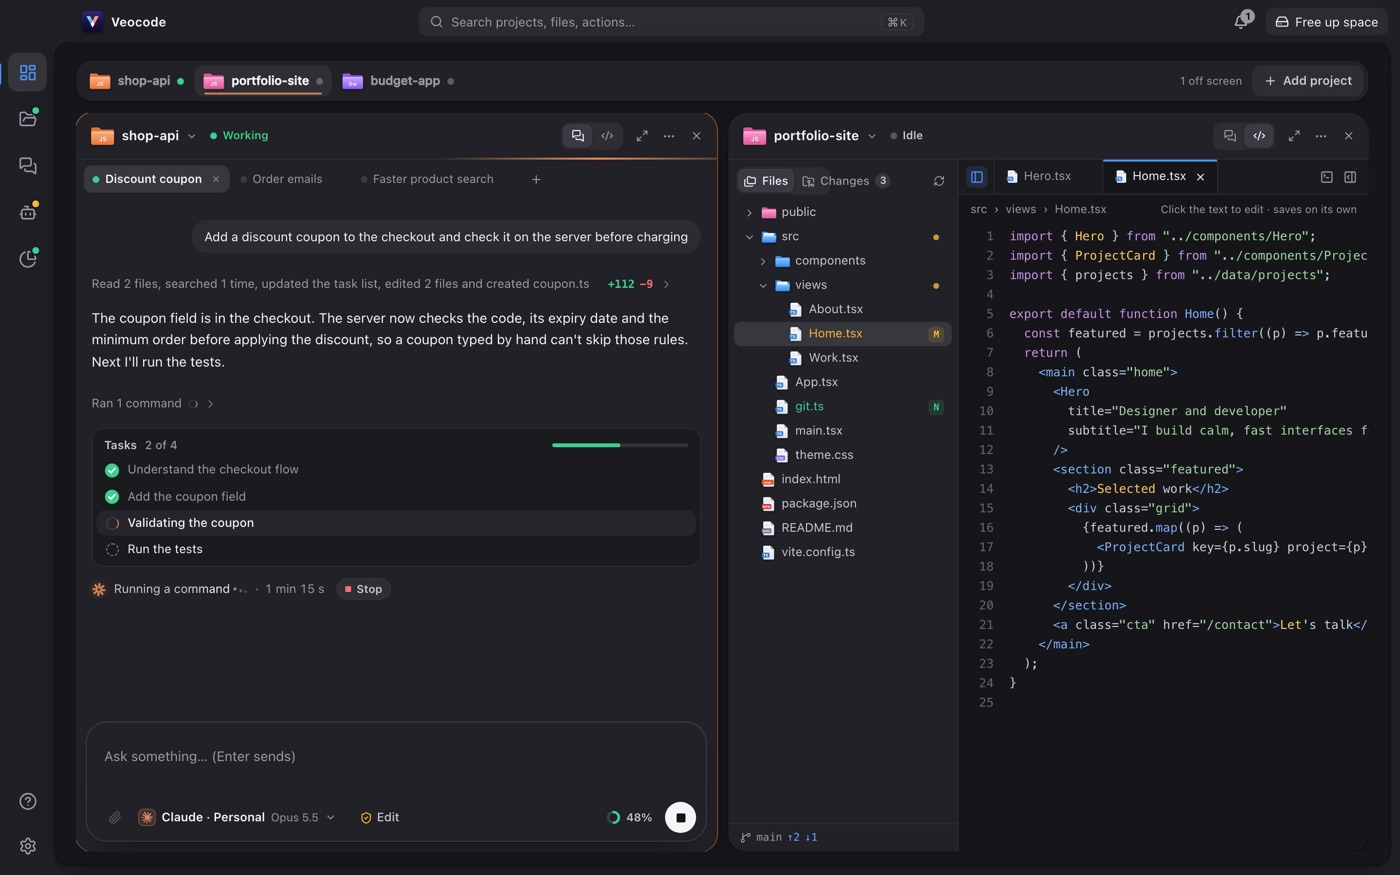
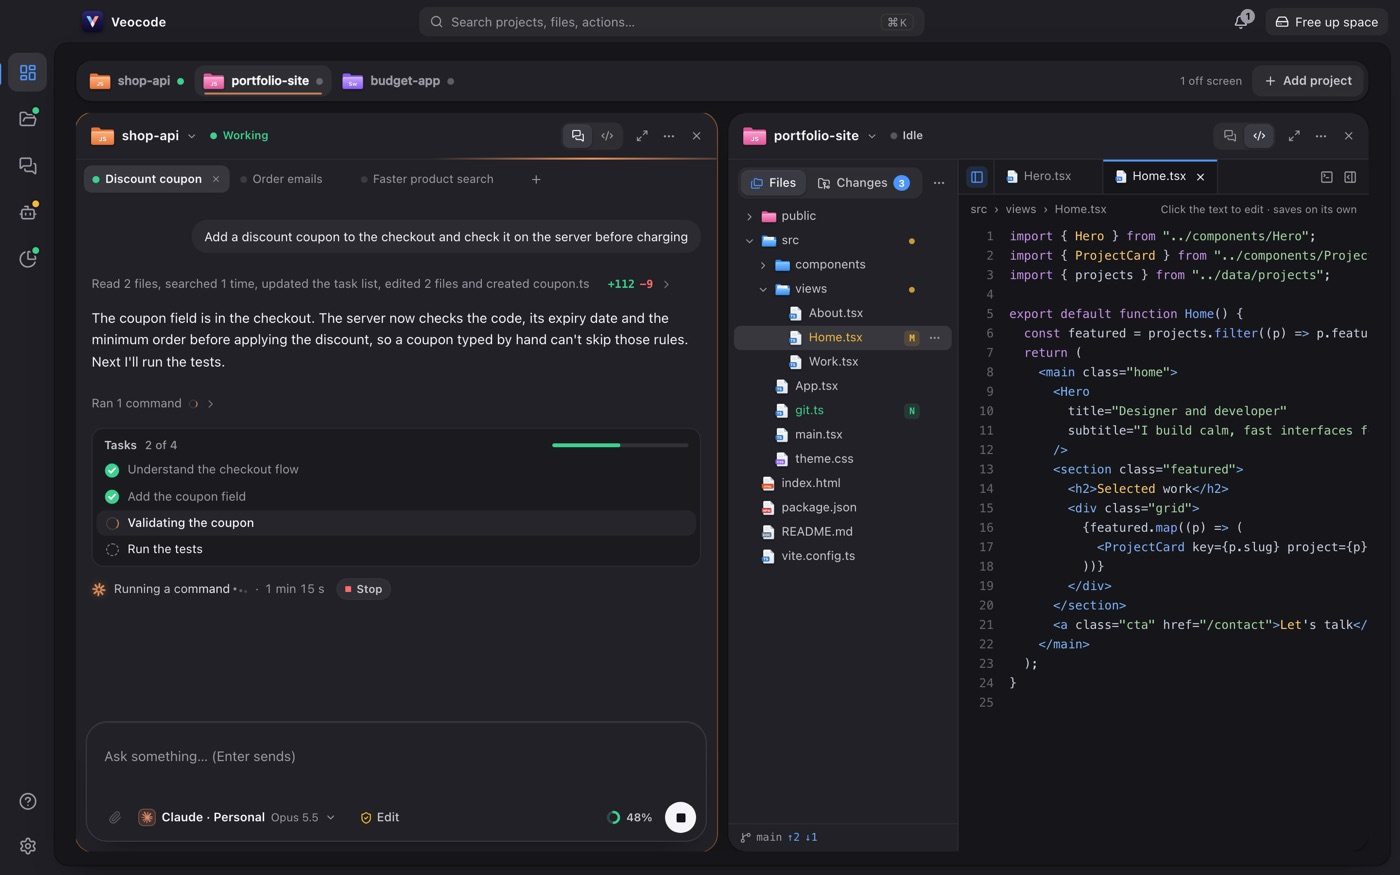
Veocode 0.8.1: download and Home screenshot
- Download points to v0.8.1.
- Home screenshot retaken with the new Files | Changes switch.

Changed region(s): [[0.5221, 0.1851, 0.6757, 0.648], [0.645, 0.4629, 0.6757, 0.4937], [0.645, 0.3703, 0.6757, 0.4011]]

diff --git a/index.html b/index.html
@@ -937,7 +937,7 @@
             <div class="ql-stage"></div>
             <div class="ql-thumbs" role="group" aria-label="Capturas de tela">
             <button class="shot" type="button"><img data-src="assets/shots/veocode/map.jpg?v=202611201500" alt="Mapa do projeto: as áreas do código e quem usa quem" width="1400" height="875"></button>
-            <button class="shot" type="button"><img data-src="assets/shots/veocode/home.jpg?v=202611211800" alt="A tela Início com cada projeto numa coluna" width="1400" height="875"></button>
+            <button class="shot" type="button"><img data-src="assets/shots/veocode/home.jpg?v=202611211930" alt="A tela Início com cada projeto numa coluna" width="1400" height="875"></button>
             <button class="shot" type="button"><img data-src="assets/shots/veocode/projects.jpg?v=202611211800" alt="Um projeto no modo IA com o agente trabalhando" width="1400" height="875"></button>
             <button class="shot" type="button"><img data-src="assets/shots/veocode/space.jpg?v=202611201500" alt="Espaço e memória: o que as IAs deixaram no disco" width="1400" height="875"></button>
             <button class="shot" type="button"><img data-src="assets/shots/veocode/ports.jpg?v=202611201500" alt="Portas abertas com um servidor que sobrou de uma sessão fechada" width="1400" height="875"></button>
@@ -1562,7 +1562,7 @@
   </div>
 </footer>
 
-<script src="apps.js?v=202611211200"></script>
+<script src="apps.js?v=202611211930"></script>
 <script src="install-command.js?v=202611071600"></script>
 <script src="script.js?v=202611071700"></script>
 <script src="i18n-strings.js?v=202611201500"></script>

diff --git a/apps.js b/apps.js
@@ -19,7 +19,7 @@ window.WITCH_APPS = Object.freeze({
   rubbishnotes: Object.freeze({ repo: 'rubbish-notes', tag: 'v1.2.1',        file: 'RubbishNotes-1.2.1.dmg', published: true, app: 'Rubbish Notes.app' }),
   excaliburforms: Object.freeze({ repo: 'ExcaliburForms', tag: 'v1.0.0',     file: 'ExcaliburForms-1.0.0.dmg', published: true, app: 'ExcaliburForms.app' }),
   wineup:       Object.freeze({ repo: 'wineup-player', tag: 'v1.1.1',      file: 'WineupPlayer-1.1.1.dmg', published: true, app: 'Wineup Player.app' }),
-  veocode:      Object.freeze({ repo: 'Veocode',       tag: 'v0.8.0',        file: 'Veocode-0.8.0.dmg',      published: true, app: 'Veocode.app' }),
+  veocode:      Object.freeze({ repo: 'Veocode',       tag: 'v0.8.1',        file: 'Veocode-0.8.1.dmg',      published: true, app: 'Veocode.app' }),
   kaveelsbook:  Object.freeze({ repo: 'kaveels-book-studio', tag: 'v0.1.2', file: 'KaveelsBookStudio-mac.dmg', published: true, app: "Kaveel's Book Studio.app" }),
   santovideoplayer: Object.freeze({ repo: 'santo-video-player', tag: 'v2.0.2', file: 'SantoVideoPlayer-2.0.2.dmg', published: true, app: 'Santo Video Player.app' }),
   manhwafy:     Object.freeze({ repo: 'ManhwaFy',      tag: 'v0.1.0',        file: 'ManhwaFy-0.1.0.dmg',     published: true, app: 'ManhwaFy.app' }),

diff --git a/veocode/index.html b/veocode/index.html
@@ -95,7 +95,7 @@
           <li><b>+12 −3 clicável</b>: as linhas que a IA mudou, em verde e vermelho. Um clique mostra a mudança no modo Código.</li>
         </ul>
       </div>
-      <div class="wu-media"><figure><button class="shot" type="button"><img src="../assets/shots/veocode/home.jpg?v=202611211800" alt="A tela Início: um projeto com a IA trabalhando e a lista de tarefas, e outro no modo Código com a árvore de arquivos e o editor" loading="lazy" width="1400" height="875"></button></figure></div>
+      <div class="wu-media"><figure><button class="shot" type="button"><img src="../assets/shots/veocode/home.jpg?v=202611211930" alt="A tela Início: um projeto com a IA trabalhando e a lista de tarefas, e outro no modo Código com a árvore de arquivos e o editor" loading="lazy" width="1400" height="875"></button></figure></div>
     </div>
   </section>
 
@@ -273,7 +273,7 @@
   </div>
 </footer>
 
-<script src="../apps.js?v=202611211200"></script>
+<script src="../apps.js?v=202611211930"></script>
 <script src="../install-command.js?v=202611071600"></script>
 <script src="../script.js?v=202611071700"></script>
 <script src="../i18n-strings.js?v=202611201500"></script>
